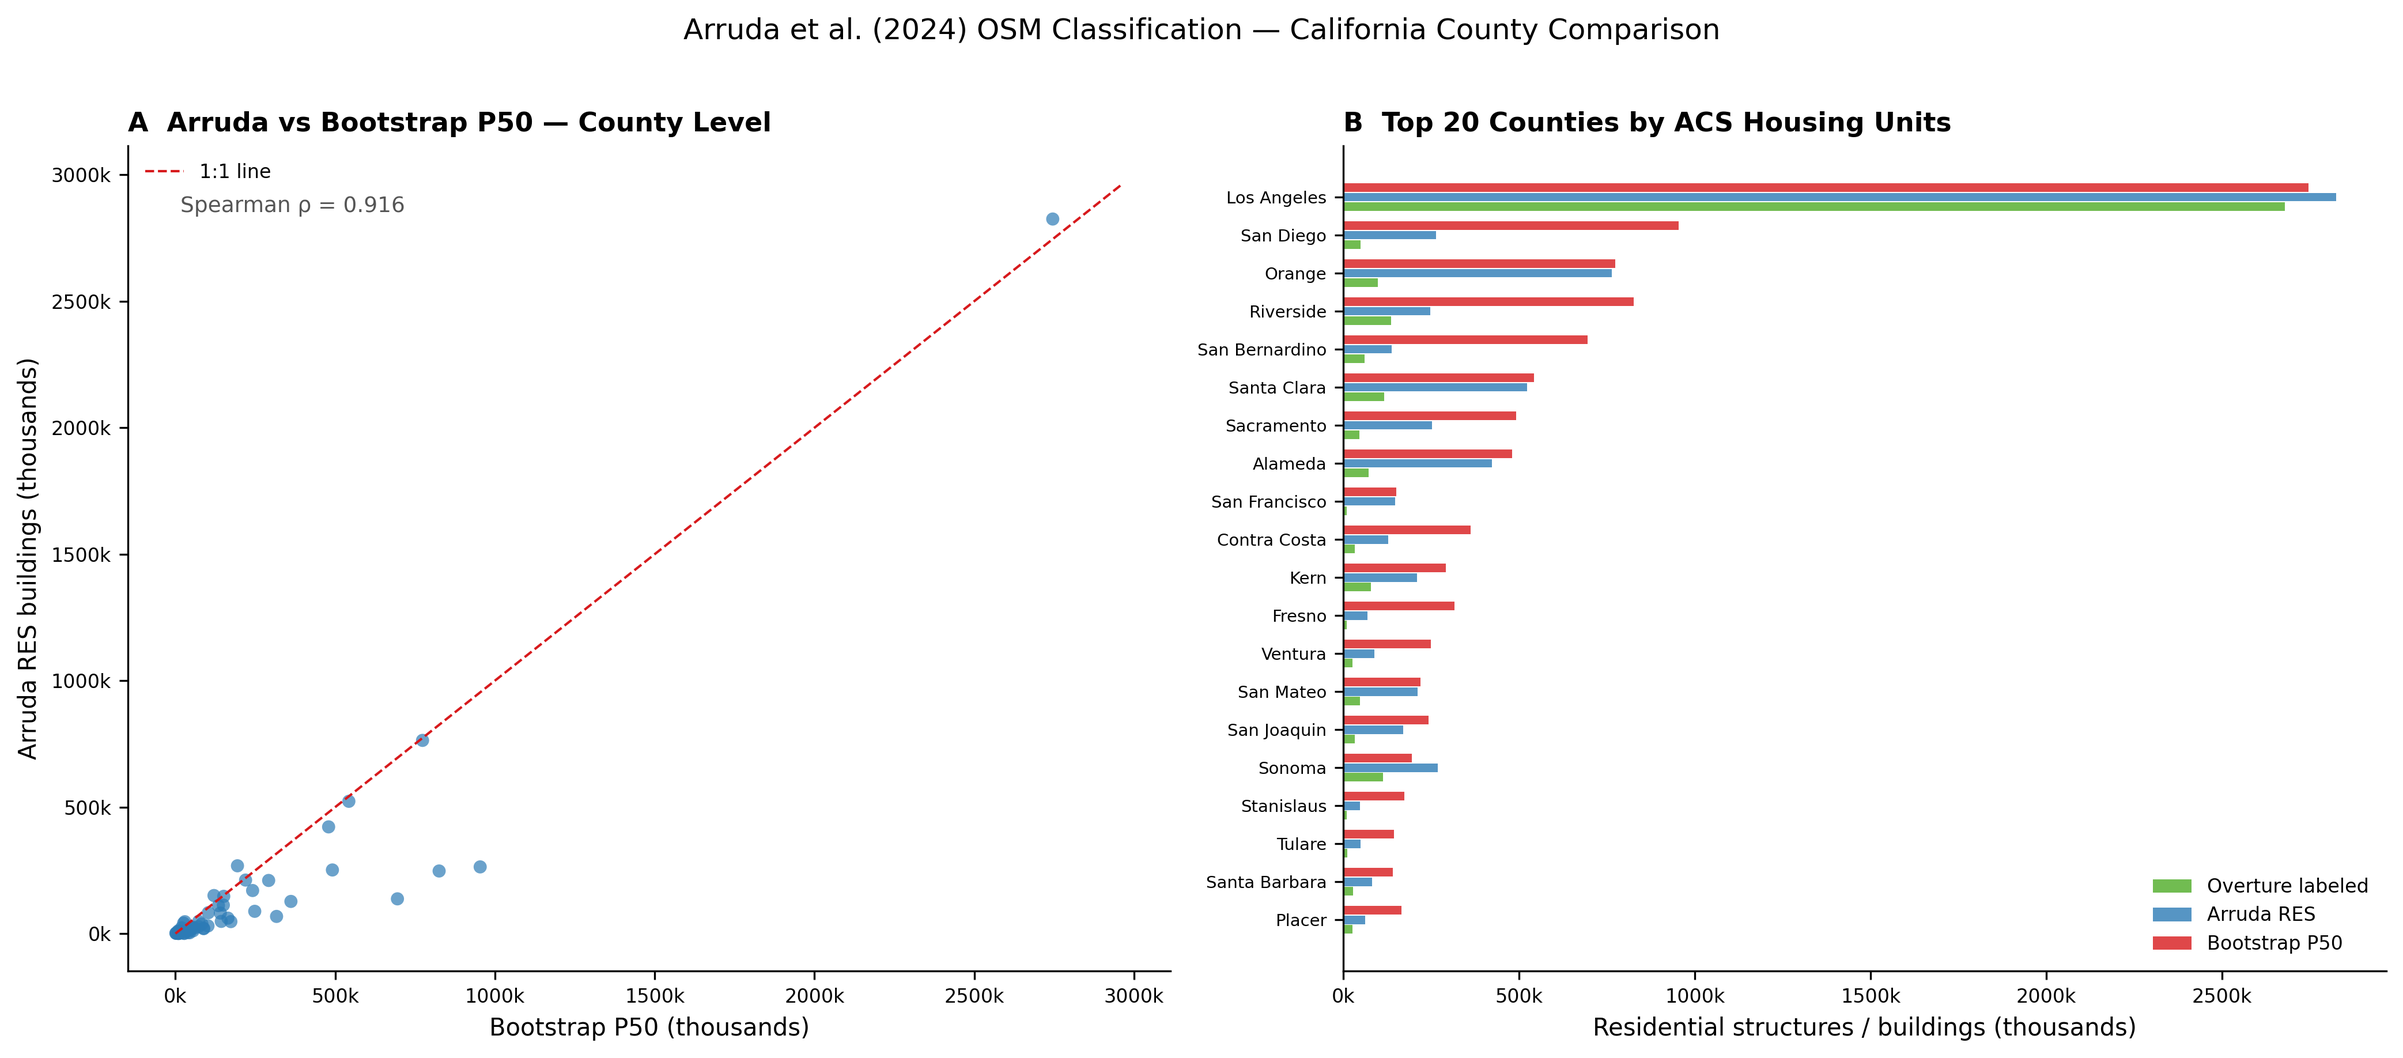
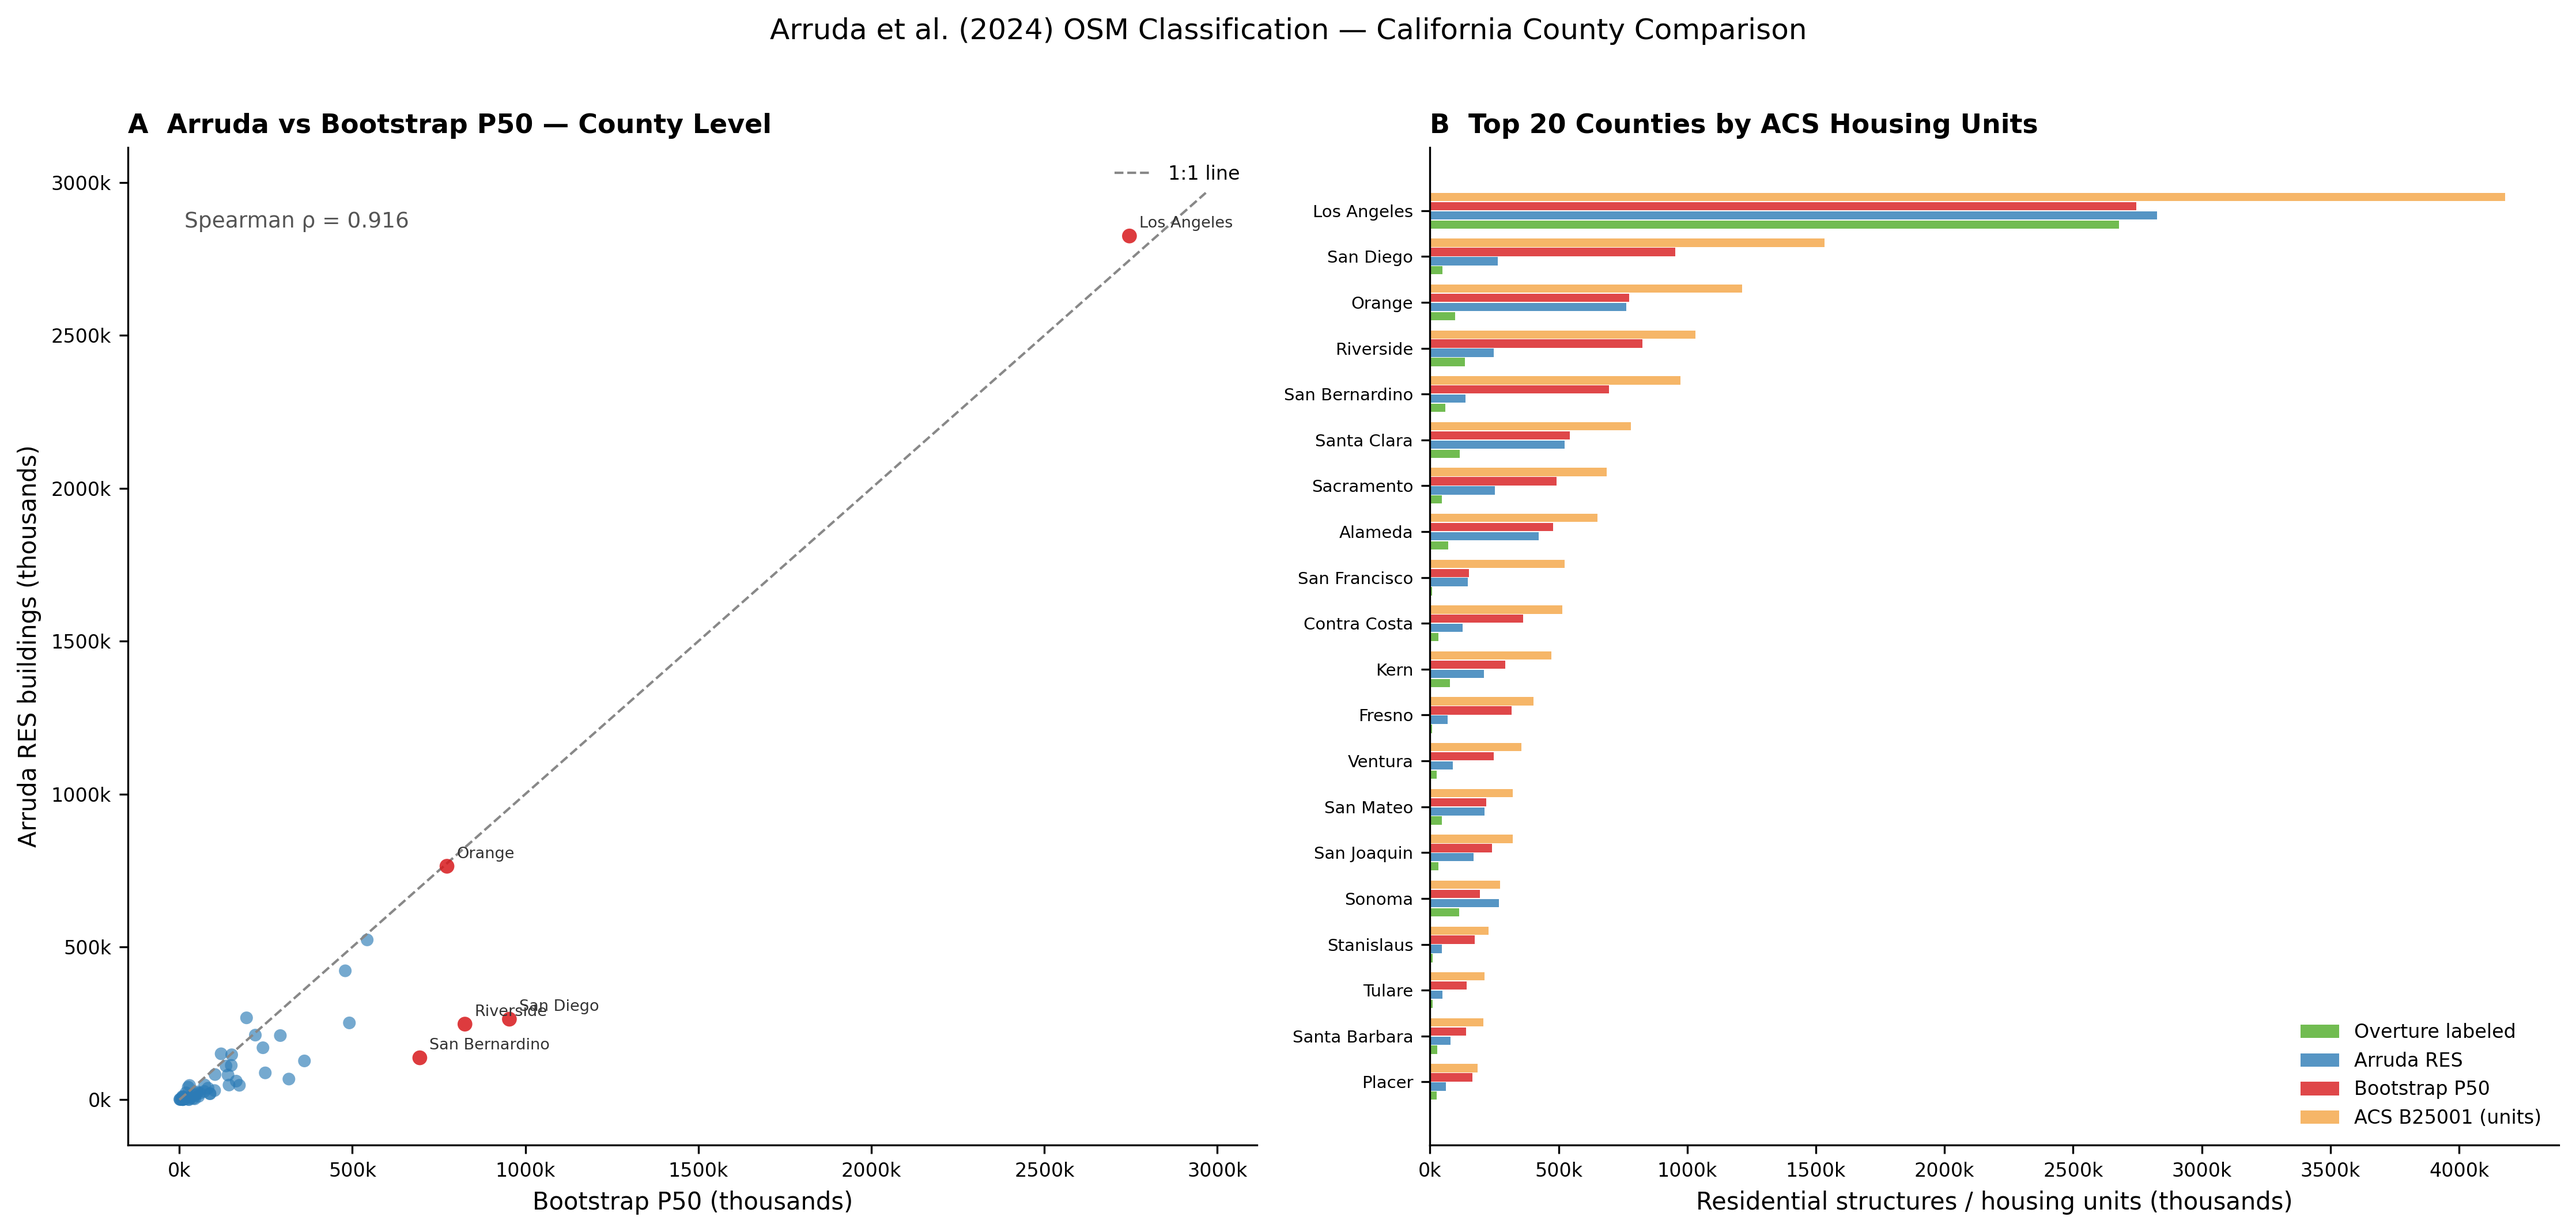
Add density normalization to map; update Arruda comparison figure
- dashboard/src/map.md: compute tract land area via d3.geoArea, display
  structures per sq mile (log scale choropleth); remove tract boundaries
  (stroke: none); click-to-select interaction (geoidInput defined before
  map, view() after); time series retains raw counts with area in title
- output/figures/fig_arruda_comparison.png: Panel B adds 4th bar for ACS
  B25001 housing units; Panel A scatter labels outlier counties (IQR-based)
  and top-5 by bootstrap P50 for navigation context
- scripts/07_acquire_arruda_comparison.py: updated make_comparison_figure()
  with 4-bar Panel B layout and IQR outlier labeling in Panel A
- .gitignore: fix dashboard/.observablehq cache path

diff --git a/scripts/07_acquire_arruda_comparison.py b/scripts/07_acquire_arruda_comparison.py
@@ -672,11 +672,43 @@ def make_comparison_figure(comp: pd.DataFrame, rho: float | None) -> None:
     # ── Panel A: scatter ─────────────────────────────────────────────────────
     ax = axes[0]
     ax.set_facecolor("white")
-    ax.scatter(valid["bootstrap_p50"] / 1000, valid["arruda_res_count"] / 1000,
-               s=30, alpha=0.7, color="#2c7bb6", edgecolors="none")
+
+    # Compute ratio = Arruda / Bootstrap P50 to identify outliers for labeling
+    valid["ratio"] = valid["arruda_res_count"] / valid["bootstrap_p50"].replace(0, float("nan"))
+    q1, q3 = valid["ratio"].quantile(0.25), valid["ratio"].quantile(0.75)
+    iqr = q3 - q1
+    outlier_mask = (valid["ratio"] < q1 - 1.5 * iqr) | (valid["ratio"] > q3 + 1.5 * iqr)
+    # Also label the 5 largest counties (by bootstrap_p50) for navigation context
+    top5_idx = valid.nlargest(5, "bootstrap_p50").index
+    label_mask = outlier_mask | valid.index.isin(top5_idx)
+
+    # Plot all points
+    ax.scatter(valid.loc[~label_mask, "bootstrap_p50"] / 1000,
+               valid.loc[~label_mask, "arruda_res_count"] / 1000,
+               s=28, alpha=0.65, color="#2c7bb6", edgecolors="none")
+    ax.scatter(valid.loc[label_mask, "bootstrap_p50"] / 1000,
+               valid.loc[label_mask, "arruda_res_count"] / 1000,
+               s=38, alpha=0.85, color="#d7191c", edgecolors="none",
+               zorder=3)
+
+    # Label outliers + top-5 with county name (short)
+    for _, row in valid[label_mask].iterrows():
+        x = row["bootstrap_p50"] / 1000
+        y = row["arruda_res_count"] / 1000
+        name = row["county_name"].replace(" County", "").strip()
+        ax.annotate(
+            name,
+            xy=(x, y),
+            xytext=(4, 2),
+            textcoords="offset points",
+            fontsize=6.5,
+            color="#333333",
+            va="bottom",
+        )
+
     lim_max = max(valid["bootstrap_p50"].max(),
                   valid["arruda_res_count"].max()) / 1000 * 1.05
-    ax.plot([0, lim_max], [0, lim_max], "--", color="#d7191c",
+    ax.plot([0, lim_max], [0, lim_max], "--", color="#888888",
             linewidth=1.0, label="1:1 line")
     if rho is not None:
         ax.text(0.05, 0.92, f"Spearman \u03c1 = {rho:.3f}",
@@ -697,19 +729,22 @@ def make_comparison_figure(comp: pd.DataFrame, rho: float | None) -> None:
     ax.set_facecolor("white")
     labels = top20["county_name"].str.strip()
     y_pos  = np.arange(len(labels))
-    bar_h  = 0.25
+    # 4 bars per county: offsets centered at 0 with bar_h=0.2 spacing
+    bar_h  = 0.2
+    offsets = [-0.3, -0.1, 0.1, 0.3]
     color_map = [
         ("overture_labeled", "#4dac26", "Overture labeled"),
         ("arruda_res_count", "#2c7bb6", "Arruda RES"),
         ("bootstrap_p50",    "#d7191c", "Bootstrap P50"),
+        ("acs_units",        "#f4a442", "ACS B25001 (units)"),
     ]
-    for k, (col, color, label) in enumerate(color_map):
+    for offset, (col, color, label) in zip(offsets, color_map):
         vals = top20[col].fillna(0) / 1000
-        ax.barh(y_pos + (k - 1) * bar_h, vals,
+        ax.barh(y_pos + offset, vals,
                 height=bar_h * 0.9, color=color, alpha=0.8, label=label)
     ax.set_yticks(y_pos)
     ax.set_yticklabels(labels, fontsize=7)
-    ax.set_xlabel("Residential structures / buildings (thousands)", fontsize=10)
+    ax.set_xlabel("Residential structures / housing units (thousands)", fontsize=10)
     ax.set_title("B  Top 20 Counties by ACS Housing Units",
                  fontsize=11, loc="left", fontweight="bold")
     ax.legend(fontsize=8, frameon=False, loc="lower right")

diff --git a/dashboard/src/map.md b/dashboard/src/map.md
@@ -4,13 +4,23 @@ title: Map Explorer
 
 # Map Explorer
 
-Browse tract-level residential structure counts across California. Use the controls to select a year and estimation method. **Click a tract on the map** to see its 2010–2024 time-series below.
+Browse tract-level residential structure **density** (structures per sq mile) across California. Use the controls to select a year and estimation method. **Click a tract on the map** to see its 2010–2024 time-series below.
 
 ```js
 import {PANELS, fetchYearSlice, fetchTractSeries} from "./components/supabase-client.js";
 
 // Tract geometry — pre-computed GeoJSON, committed to repo (~4.7 MB)
 const tracts = await FileAttachment("data/ca-tracts.json").json();
+
+// Land area per tract computed from GeoJSON geometry (d3.geoArea → steradians → sq miles).
+// Uses simplified geometry (tolerance 0.001°), sufficient for density display.
+const EARTH_RADIUS_MI = 3958.8;
+const tractAreaSqMi = new Map(
+  tracts.features.map(f => {
+    const areaSqMi = d3.geoArea(f) * (EARTH_RADIUS_MI ** 2);
+    return [f.properties.geoid, areaSqMi];
+  })
+);
 
 // Hybrid panel — all years loaded statically to avoid runtime CORS issues (~15 MB, gzipped ~2 MB)
 const hybridAllYears = await FileAttachment("data/panel-hybrid.json").json();
@@ -37,7 +47,7 @@ const pKey = view(Inputs.select(
 
 ---
 
-## ${year} · ${PANELS[pKey]?.label}
+## ${year} · ${PANELS[pKey]?.label} — Structures per sq mile
 
 ```js
 // For the hybrid panel, filter the pre-loaded static data; other panels fetch from Supabase.
@@ -46,16 +56,24 @@ const yearData = pKey === "hybrid"
   : await fetchYearSlice(pKey, year);
 
 const valueCol = PANELS[pKey].col;
-const valueByGeoid = new Map(yearData.map(d => [d.geoid, d[valueCol]]));
+
+// Density: structures (or units) per square mile of tract land area.
+const densityByGeoid = new Map(
+  yearData
+    .filter(d => d[valueCol] != null)
+    .map(d => {
+      const area = tractAreaSqMi.get(d.geoid) ?? 0;
+      return [d.geoid, area > 0 ? d[valueCol] / area : null];
+    })
+);
 
 // Log scale requires positive values; filter out zeros and nulls.
-const values = yearData.map(d => d[valueCol]).filter(v => v > 0);
-const [vMin, vMax] = [d3.min(values), d3.max(values)];
+const densities = [...densityByGeoid.values()].filter(v => v != null && v > 0);
+const [dMin, dMax] = [d3.min(densities), d3.max(densities)];
 ```
 
 ```js
 // Build the tract selector BEFORE the map so the click handler below can reference it.
-// All non-null tracts are included; sort descending by value so the most populated appear first.
 const geoidOptions = yearData
   .filter(d => d[valueCol] != null)
   .sort((a, b) => d3.descending(a[valueCol], b[valueCol]))
@@ -71,7 +89,8 @@ const geoidInput = Inputs.select(
 ```
 
 ```js
-// Choropleth map. Click any tract to update the time-series below.
+// Choropleth — no tract boundaries for cleaner density display.
+// Click any tract to update the time-series below.
 const mapEl = Plot.plot({
   width,
   height: 600,
@@ -79,27 +98,30 @@ const mapEl = Plot.plot({
   color: {
     type: "log",
     scheme: "YlOrRd",
-    domain: [Math.max(1, vMin ?? 1), vMax ?? 100],
-    label: `${PANELS[pKey]?.label} (log scale)`,
+    domain: [Math.max(0.01, dMin ?? 0.01), dMax ?? 1000],
+    label: `${PANELS[pKey]?.label} — structures per sq mile (log scale)`,
     legend: true,
   },
   marks: [
     Plot.geo(tracts, {
-      fill: feature => valueByGeoid.get(feature.properties.geoid) ?? NaN,
-      stroke: "white",
-      strokeWidth: 0.15,
+      fill: feature => densityByGeoid.get(feature.properties.geoid) ?? NaN,
+      stroke: "none",
       cursor: "pointer",
       title: feature => {
         const g = feature.properties.geoid;
-        const v = valueByGeoid.get(g);
-        return `Tract: ${g}\n${PANELS[pKey]?.label}: ${v != null ? v.toLocaleString(undefined, {maximumFractionDigits: 0}) : "no data"}`;
+        const density = densityByGeoid.get(g);
+        const area = tractAreaSqMi.get(g);
+        return [
+          `Tract: ${g}`,
+          density != null ? `Density: ${density.toLocaleString(undefined, {maximumFractionDigits: 1})} / sq mi` : "no data",
+          area != null ? `Area: ${area.toFixed(2)} sq mi` : "",
+        ].filter(Boolean).join("\n");
       },
     }),
   ],
 });
 
-// Click a tract on the map → update the selector and trigger the time-series.
-// Observable Plot attaches the GeoJSON feature to __data__ on each <path> element.
+// Click a tract → update the selector and trigger the time-series.
 mapEl.addEventListener("click", event => {
   const path = event.target.closest("path");
   const geoid = path?.__data__?.properties?.geoid;
@@ -118,7 +140,6 @@ display(mapEl);
 
 ```js
 // Render the tract selector and create the reactive selectedGeoid value.
-// geoidInput was already built in the cell above so the map click handler could reference it.
 const selectedGeoid = view(geoidInput);
 ```
 
@@ -131,9 +152,12 @@ if (selectedGeoid) {
 
   const yCol = PANELS[pKey].col;
   const hasUncertainty = PANELS[pKey].hasUncertainty;
+  const area = tractAreaSqMi.get(selectedGeoid);
+  const areaLabel = area != null ? ` (${area.toFixed(2)} sq mi)` : "";
 
   display(Plot.plot({
-    title: `Tract ${selectedGeoid} · ${PANELS[pKey].label}`,
+    title: `Tract ${selectedGeoid}${areaLabel} · ${PANELS[pKey].label}`,
+    subtitle: "Raw structure counts (not density-normalized)",
     width,
     height: 280,
     x: {label: "Year", tickFormat: "d"},
